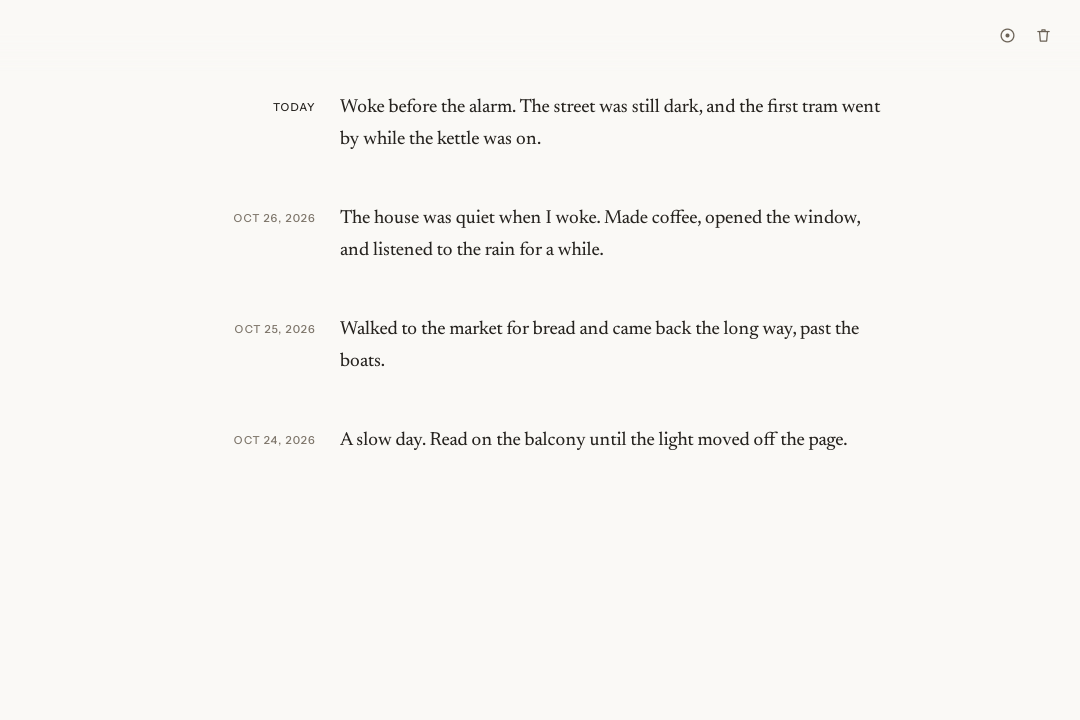
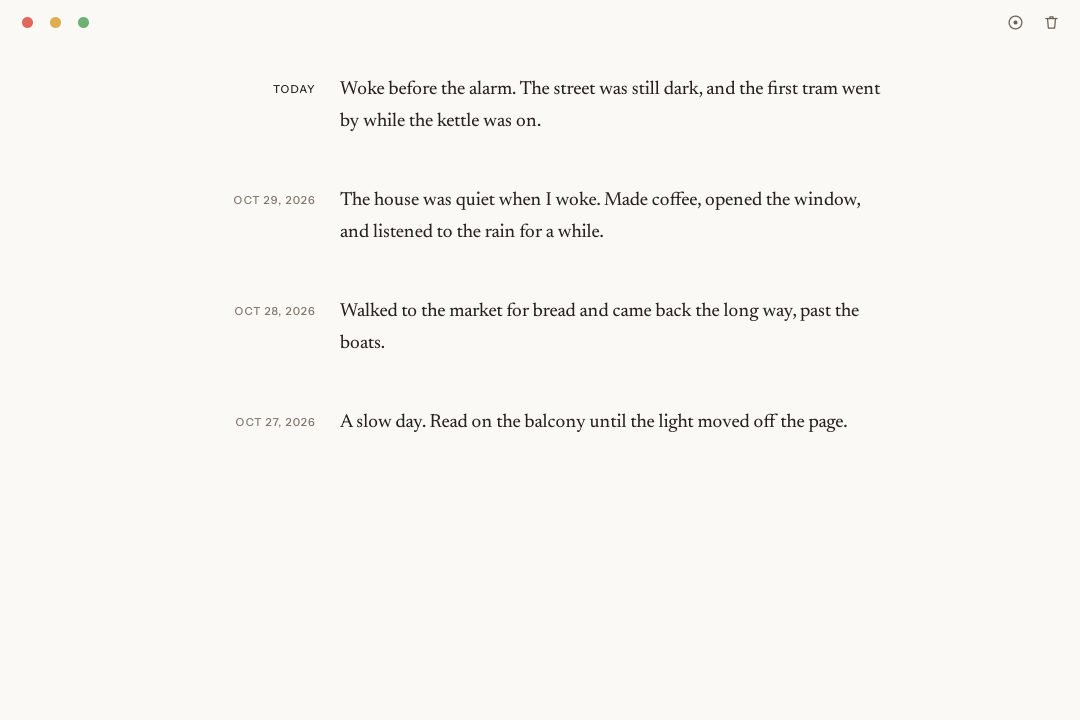
feat: frame the window in the page
The window is frameless, with close, minimize and zoom drawn in the page
at the top left, so the bar above the log is now the drag region too.

The page paints its own paper at 80% alpha over a vibrancy material, so
the desktop reads faintly through the whole window; the paper still
matches the old background where nothing is behind it.

Closing waits for the saves in flight before it quits. The fatal screen
starts below the bar, so the window can still be closed from it.

diff --git a/src/frontend/style.css b/src/frontend/style.css
@@ -16,7 +16,9 @@
 
 :root {
   color-scheme: light dark;
+  --bar: 44px;
   --bg: #faf9f6;
+  --window: rgba(250, 249, 246, 0.8);
   --ink: #26231f;
   --muted: #7d756a;
   --icon: #6a6155;
@@ -24,11 +26,15 @@
   --accent: #a9541c;
   --accent-soft: #f0e0cf;
   --error: #a5342c;
+  --close: #e0685c;
+  --minimize: #dfae52;
+  --zoom: #6fb073;
 }
 
 @media (prefers-color-scheme: dark) {
   :root {
     --bg: #121110;
+    --window: rgba(18, 17, 16, 0.8);
     --ink: #ece7dd;
     --muted: #958d80;
     --icon: #a79e90;
@@ -50,7 +56,9 @@ body {
 
 body {
   margin: 0;
-  background: var(--bg);
+  display: flex;
+  flex-direction: column;
+  background: var(--window);
   color: var(--ink);
   font-family: "Instrument Sans", ui-sans-serif, -apple-system, "Segoe UI", sans-serif;
   font-size: 14px;
@@ -81,20 +89,72 @@ button:disabled {
 }
 
 .app {
+  flex: 1;
+  min-height: 0;
   display: flex;
   flex-direction: column;
-  height: 100%;
 }
 
-/* Two controls float over the log; everything else is the note. */
+/* The window has no frame: this bar drags it and holds its controls. */
 
-.tools {
-  position: fixed;
-  top: 18px;
-  right: 20px;
-  z-index: 5;
+.bar {
+  flex: none;
+  display: flex;
+  align-items: center;
+  height: var(--bar);
+  padding: 0 12px 0 14px;
+  -webkit-user-select: none;
+  user-select: none;
+}
+
+.window-controls {
   display: flex;
   gap: 2px;
+}
+
+.dot {
+  display: grid;
+  place-items: center;
+  width: 26px;
+  height: 26px;
+  border-radius: 7px;
+}
+
+.dot::before {
+  content: "";
+  width: 11px;
+  height: 11px;
+  border-radius: 50%;
+  background: currentColor;
+  transition: transform 120ms ease;
+}
+
+.dot:hover::before {
+  transform: scale(1.12);
+}
+
+.dot:focus-visible {
+  outline: 2px solid var(--accent);
+}
+
+.dot.close {
+  color: var(--close);
+}
+
+.dot.minimize {
+  color: var(--minimize);
+}
+
+.dot.zoom {
+  color: var(--zoom);
+}
+
+/* Two controls sit at the right of the bar; everything else is the note. */
+
+.tools {
+  display: flex;
+  gap: 2px;
+  margin-left: auto;
 }
 
 .icon {
@@ -136,23 +196,10 @@ button:disabled {
   overscroll-behavior: none;
 }
 
-/* Text scrolling under the controls fades into the page. */
-.page::before {
-  content: "";
-  position: fixed;
-  top: 0;
-  left: 0;
-  right: 0;
-  height: 72px;
-  z-index: 4;
-  background: linear-gradient(var(--bg) 45%, transparent);
-  pointer-events: none;
-}
-
 .log {
   width: min(100% - 64px, 43rem);
   margin: 0 auto;
-  padding: 92px 0 45vh;
+  padding: 30px 0 45vh;
 }
 
 .entry {
@@ -207,7 +254,7 @@ button:disabled {
 @media (max-width: 620px) {
   .log {
     width: min(100% - 40px, 43rem);
-    padding-top: 78px;
+    padding-top: 22px;
   }
 
   .entry {
@@ -248,7 +295,7 @@ button:disabled {
 
 .fatal {
   position: fixed;
-  inset: 0;
+  inset: var(--bar) 0 0;
   display: grid;
   place-items: center;
   padding: 40px;

diff --git a/src/frontend/index.html b/src/frontend/index.html
@@ -8,7 +8,13 @@
 <script type="module" src="app.js"></script>
 </head>
 <body>
-<div id="app" class="app">
+<header class="bar" data-tiny-drag>
+  <div class="window-controls">
+    <button id="close" class="dot close" type="button" title="Close" aria-label="Close the window"></button>
+    <button id="minimize" class="dot minimize" type="button" title="Minimize" aria-label="Minimize the window"></button>
+    <button id="zoom" class="dot zoom" type="button" title="Zoom" aria-label="Zoom the window"></button>
+  </div>
+
   <nav class="tools" aria-label="Notes">
     <button id="today" class="icon" type="button" title="Today" aria-label="Today">
       <svg viewBox="0 0 24 24" aria-hidden="true"><circle cx="12" cy="12" r="8"/><circle cx="12" cy="12" r="2.5" fill="currentColor" stroke="none"/></svg>
@@ -17,7 +23,9 @@
       <svg viewBox="0 0 24 24" aria-hidden="true"><path d="M5 7h14"/><path d="M10 7V5h4v2"/><path d="M7 7l1 12h8l1-12"/></svg>
     </button>
   </nav>
+</header>
 
+<div id="app" class="app">
   <main id="page" class="page">
     <div id="log" class="log"></div>
   </main>

diff --git a/src/frontend/app.js b/src/frontend/app.js
@@ -288,6 +288,15 @@ function fatal(message) {
 
 $('today').addEventListener('click', goToday);
 $('delete').addEventListener('click', removeFocused);
+
+// The window has no frame, so its controls live in the page. A close waits for
+// the saves in flight, then quits; a failed save is already on the status line.
+$('close').addEventListener('click', async () => {
+  await flushAll();
+  tiny.win.close();
+});
+$('minimize').addEventListener('click', () => tiny.win.minimize());
+$('zoom').addEventListener('click', () => tiny.win.zoom());
 pageEl.addEventListener(
   'scroll',
   () => {
